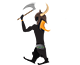
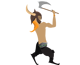
New images for Olaf and bad viking

Changed region(s): [[0.2, 0.0, 0.75, 1.0]]

diff --git a/Olaf.java b/Olaf.java
@@ -16,7 +16,7 @@ public class Olaf extends Grounded
         speed = 4;
         health = 3;
         dying = false;
-        for(int i=0; i<6; i++) {
+        for(int i=0; i<20; i++) {
             sprites[i] = "olaf" + (i+1) + ".png";
         }
     };
@@ -69,7 +69,7 @@ public class Olaf extends Grounded
                 if(actorRight==true){
                     setImage(sprites[0]);
                 } else {
-                    setImage(sprites[3]);
+                    setImage(sprites[5]);
                 }
             }
         }
@@ -84,7 +84,7 @@ public class Olaf extends Grounded
         if(!isRightObstacle()){
             actorRight = true;
             chgImgIn = chgImgIn - 1;
-            changeImage(0,3);
+            changeImage(1,3);
             if(getX() < 500) {
                 setLocation(getX() + speed, getY() );
             }
@@ -95,7 +95,7 @@ public class Olaf extends Grounded
         if(!isLeftObstacle()){
             actorRight = false;
             chgImgIn = chgImgIn - 1;
-            changeImage(3,3);
+            changeImage(6,3);
             if(getX() > 300) {
                 setLocation(getX() - speed, getY() );
             }

diff --git a/Grounded.java b/Grounded.java
@@ -22,7 +22,7 @@ public class Grounded extends Actor
     public int imgNum = 1; // Image ID
     public int chgImg = 0; // Are we supposed to change the picture? 0/1
     
-    public String[] sprites = new String[10]; 
+    public String[] sprites = new String[20]; 
     public int health = 1;
     public boolean animating = false, dying;
     public int dieOn;
@@ -58,9 +58,9 @@ public class Grounded extends Actor
             xWeight = 0;
         } else {
             if(actorRight==true){
-                setImage(sprites[1]); 
+                setImage(sprites[4]); 
             } else {
-                setImage(sprites[4]);
+                setImage(sprites[9]);
             }
             fall();
         }

diff --git a/Levels.java b/Levels.java
@@ -14,7 +14,7 @@ public class Levels extends World
      * Constructor for objects of class Levels.
      * 
      */
-    public String bgImageName = "forest_day.png";  
+    public String bgImageName = "cave_bg.jpg";  
     public int scrollSpeed = 4;  
     public int picWidth = (new GreenfootImage(bgImageName)).getWidth();
     public static Olaf main = new Olaf();

diff --git a/EvilViking.java b/EvilViking.java
@@ -12,7 +12,7 @@ public class EvilViking extends Enemy
 {   
     public EvilViking(){
         speed = 2;
-        for(int i=0; i<10; i++) {
+        for(int i=0; i<18; i++) {
             sprites[i] = "evilViking" + (i+1) + ".png";
         }
     };
